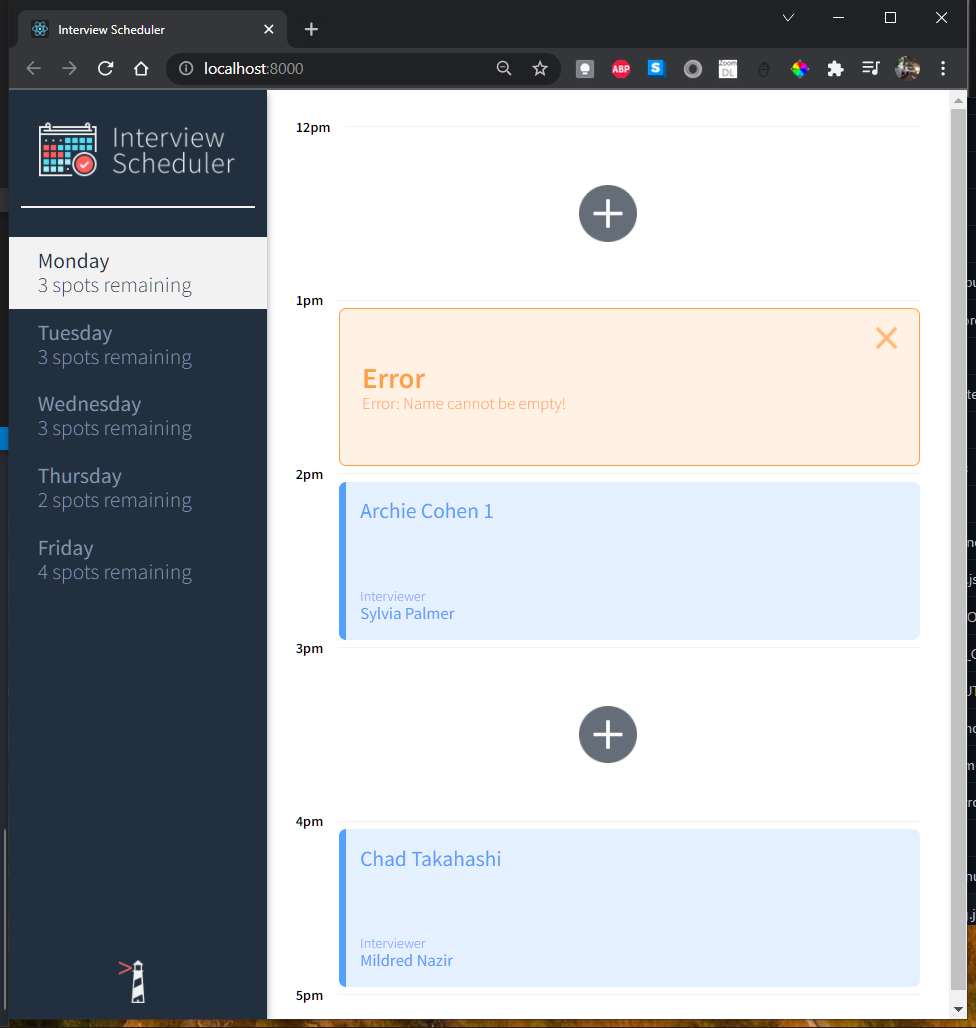
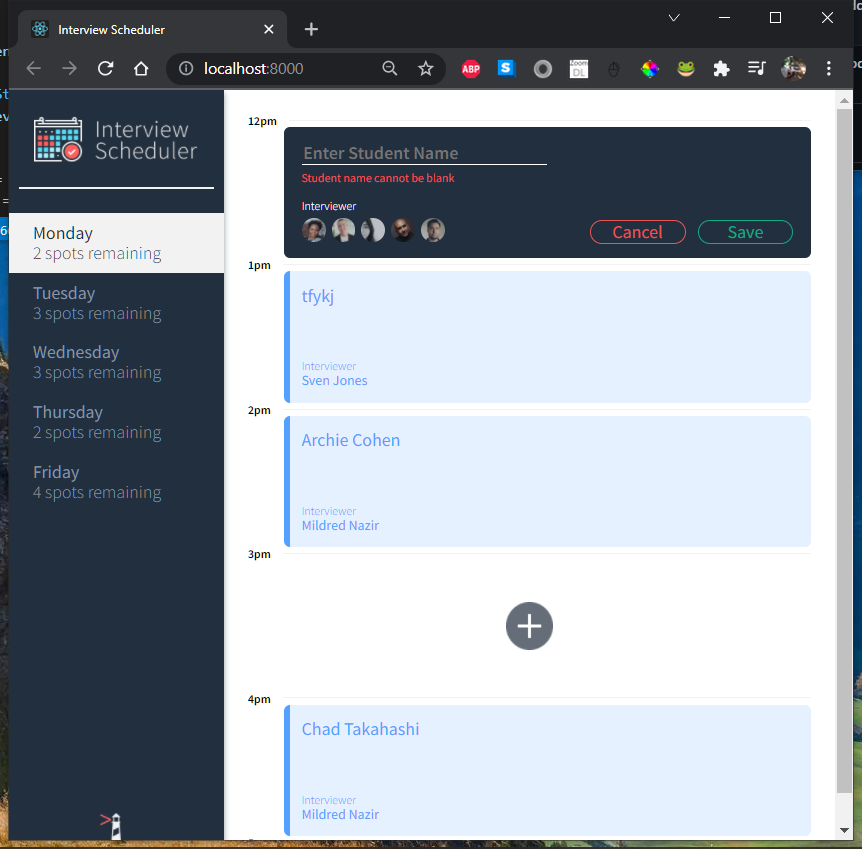
Add error clearing to Form jsx, update screenshots

diff --git a/src/components/Appointment/Form.jsx b/src/components/Appointment/Form.jsx
@@ -5,6 +5,7 @@ import InterviewerList from "components/InterviewerList";
 import Button from "components/Button";
 
 export default function Form(props) {
+  const ERROR_MSG_STUDENT_NAME_CANNOT_BE_BLANK = "Student name cannot be blank";
   console.log("Form props: ", {props});
   const studentName = props.student ? props.student : "";
   const interviewers = props.interviewers;
@@ -21,18 +22,19 @@ export default function Form(props) {
     // handleSave();
   };
 
+  const ERROR_MSG_INTERVIEWER_MUST_BE_SELECTED = "Interviewer must be selected!";
   const handleSave = (event) => {
     // console.log("Form Save event: ", event);
     let student = formState.student;
     let interviewer = formState.interviewer;
 
     if (student === "") {
-      setError("Student name cannot be blank");
+      setError(ERROR_MSG_STUDENT_NAME_CANNOT_BE_BLANK);
       return;
     }
 
     if (!interviewer || !interviewer.id) {
-      setError("Interviewer must be selected!");
+      setError(ERROR_MSG_INTERVIEWER_MUST_BE_SELECTED);
       return;
     }
 
@@ -50,9 +52,15 @@ export default function Form(props) {
   };
 
   const handleInputChange = (event) => {
+
     const studentNameInput = event.target.value;
     console.log({ studentNameInput })
     setFormState({ ...formState, student: studentNameInput });
+    // clear prev error if some value is set to student name input
+    if(error === ERROR_MSG_STUDENT_NAME_CANNOT_BE_BLANK
+      && formState.student) {
+      setError("");
+    }
   };
 
   const getInterviewerForId = (state, id) => {
@@ -64,10 +72,14 @@ export default function Form(props) {
   }
 
   const setInterviewer = (updatedInterviewer) => {
+    if(error === ERROR_MSG_INTERVIEWER_MUST_BE_SELECTED) {
+      setError("");
+    }
     console.log("set interviewer: ", updatedInterviewer);
     const selectedInterviewer = getInterviewerForId(formState, updatedInterviewer);
     console.log("Interviewer selected: ", selectedInterviewer);
     setFormState({ ...formState, interviewer: selectedInterviewer})
+    // clear prev error if some value is set to student name input
   };
 
   return (
